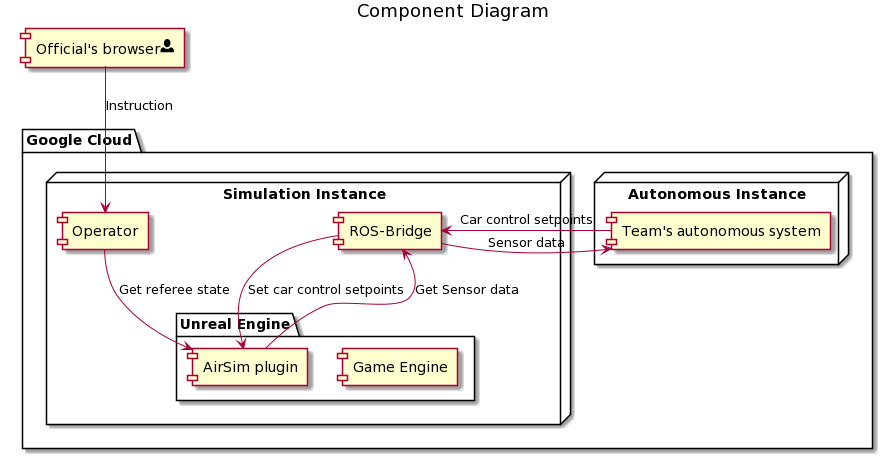
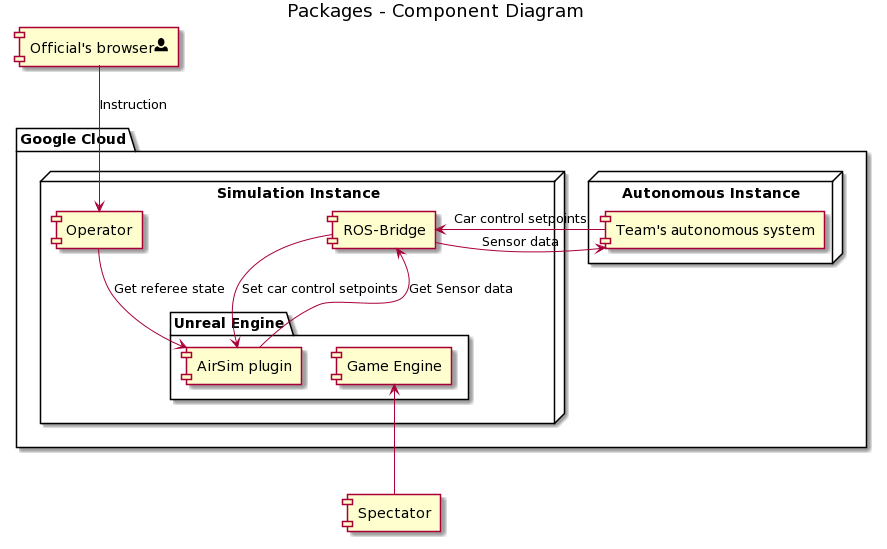
Write spectator docs

Changed region(s): [[0.0, 0.0305, 1.0, 1.0], [0.3044, 0.0, 0.6697, 0.061]]

diff --git a/docs/spectator.md b/docs/spectator.md
@@ -1,0 +1,43 @@
+# Spectator
+The spectator provides an eye into the virtual world from an external computer.
+Through a network connection the virtual world state is replicated and shown on the screen.
+The user can operate the camera with its mouse and keyboard.
+
+## 1. Run the simulation in server mode
+Download the packaged version of the unreal game and run it using:
+```
+FSDS.exe /Game/TrainingMap?listen -log PORT=7777
+```
+This will launch the simulation as a listen server.
+This means that the game will run as normal but external clients are welcome to connect.
+
+If you want to give access to clients from external computers you must ensure the specified port is accessible. 
+In most cases you will have to add a firewall rule to allow the traffic.
+When behind a router you might need to do some port forwarding.
+Both TCP and UDP traffic must be able to travel from client to server on the configured port.
+
+## 2. Running the spectator
+Now we need to run the simulation on another computer pointing at the server.
+You must use the same version of binaries as the server.
+Run the simulation as follows:
+
+```
+FSDS.exe 0.0.0.0 -log PORT=7777
+```
+Where `0.0.0.0` is replaced by the external ip of the server.
+
+If the connection fails the game willback to running as a normal simulation.
+This fallback initiates after a connection timeout of 20 seconds.
+
+Theoretically multiple simultaneous spectators in a single world should work but this is not tested or supported.
+
+## 3. Using the spectator
+Spectators can use the wsdaqe to move around and their mouse to look around. 
+They can also use the buttons 1 til 9 to teleport to predefined camera locations.
+We call these camera locations 'spectator points'. 
+
+## 4. Adding spectator points to the map
+Spectator points are places in the world where the spectator can teleport to using the number keys on the keyboard.
+These locations are defined in the map and cannot be changed during the game.
+To create a new point, add a new CameraActor to the world and add the `spectator` tag to the actor.
+The AirsimSpectatorPawn will find them automatically and add them in the order that they were found.

diff --git a/docs/system-overview.md b/docs/system-overview.md
@@ -2,12 +2,10 @@ _This document is intended to read top-to-bottom. Do yourself a favour and read 
 
 # Formula Student Driverless Simulation: System overview
 
-FSDS is built around Unreal Engine 4 (the game engine) and the AirSim plugin. 
+FSDS is built around Unreal Engine 4 (the game engine) and the AirSim plugin.
 The game engine does all the graphical rendering, collision simulation and car movement simulation. 
-A separate component - the simulator - will handle all control of the simulation, provide external interfaces and store what is happening.
-
-! We will also provide a video feed of the simulation for live streaming purposes.
-  Since it is still unclear how this will work this is not included in this description.
+Autonomous systems connect to the simulation using ROS topics provided by the ros-bridge. 
+A separate component - the operator - will provide an interface to officials to controll the simulation during competition.
 
 ![System overview](images/system-overview.png)
 
@@ -100,3 +98,9 @@ AirSim is used to connect Unreal with the operator and ROS bridge.
 This plugin is added inside the Unreal world and takes control of most of the game logic.
 It receives the sensor suite and simulates the sensors, it moves the car according to trajectory setpoints and exposes an RPC API for external management.
 This RPC API is used by the simulator to interact with the world.
+
+## The Spectator
+The spectator provides an eye into the virtual world from an external computer.
+Through a network connection the virtual world state is replicated and shown on the screen.
+The user can operate the camera with its mouse and keyboard.
+Read more about usage of the spectator [here](spectator.md).
